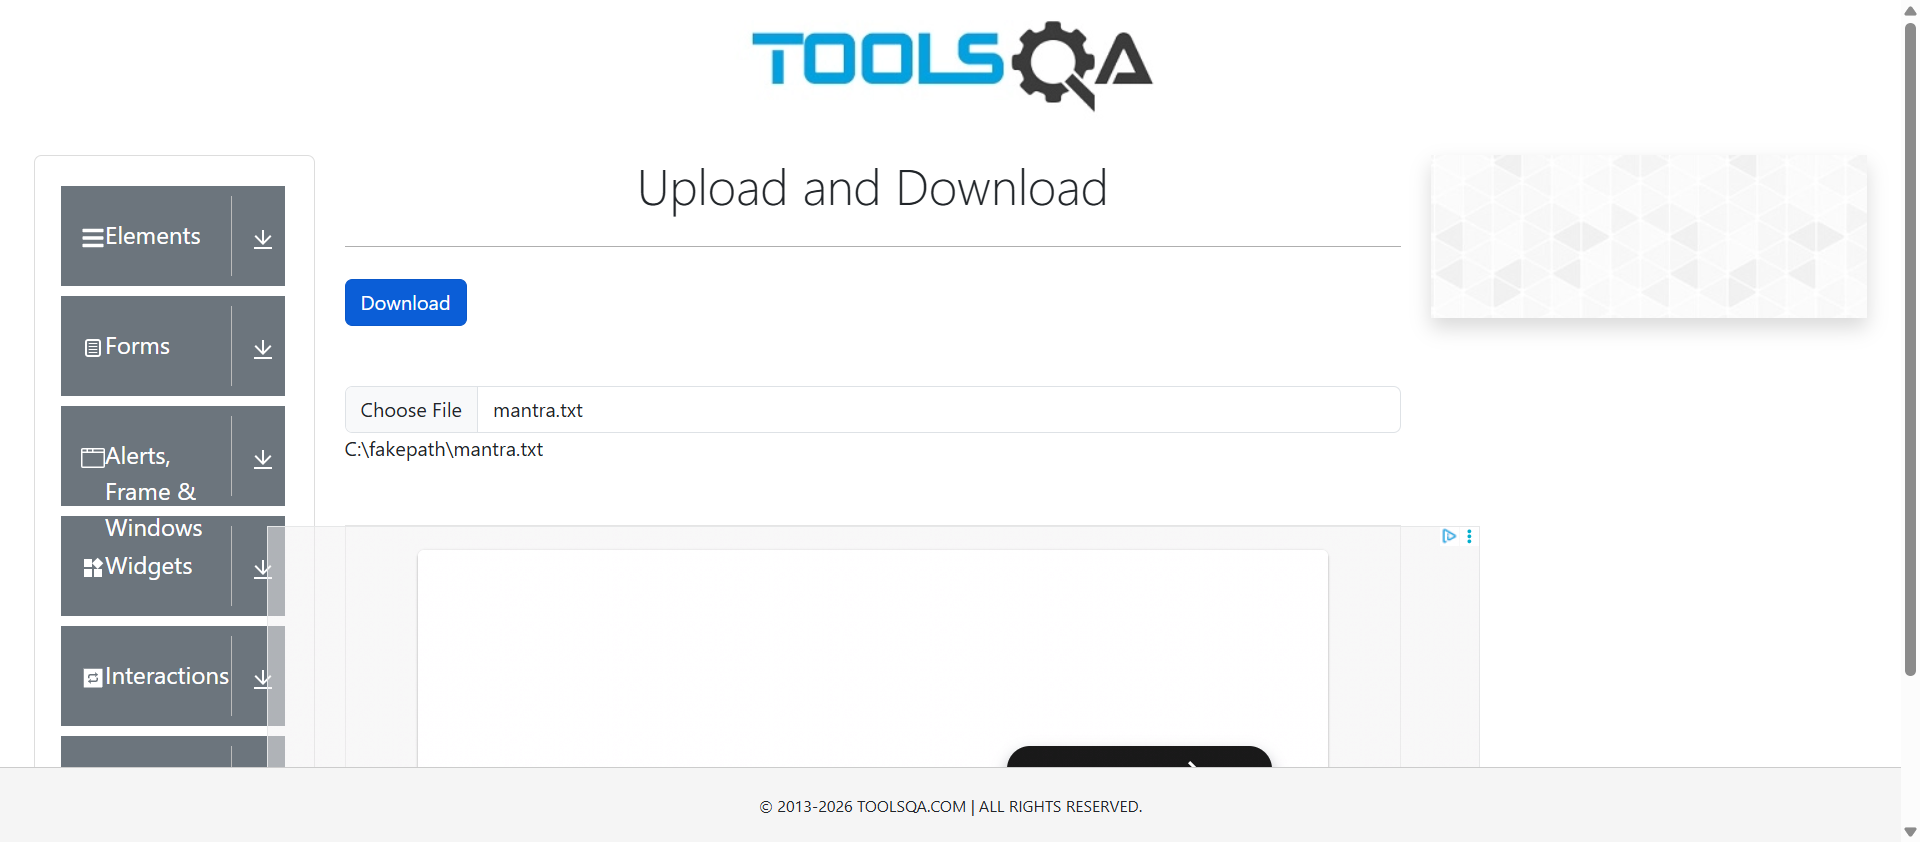
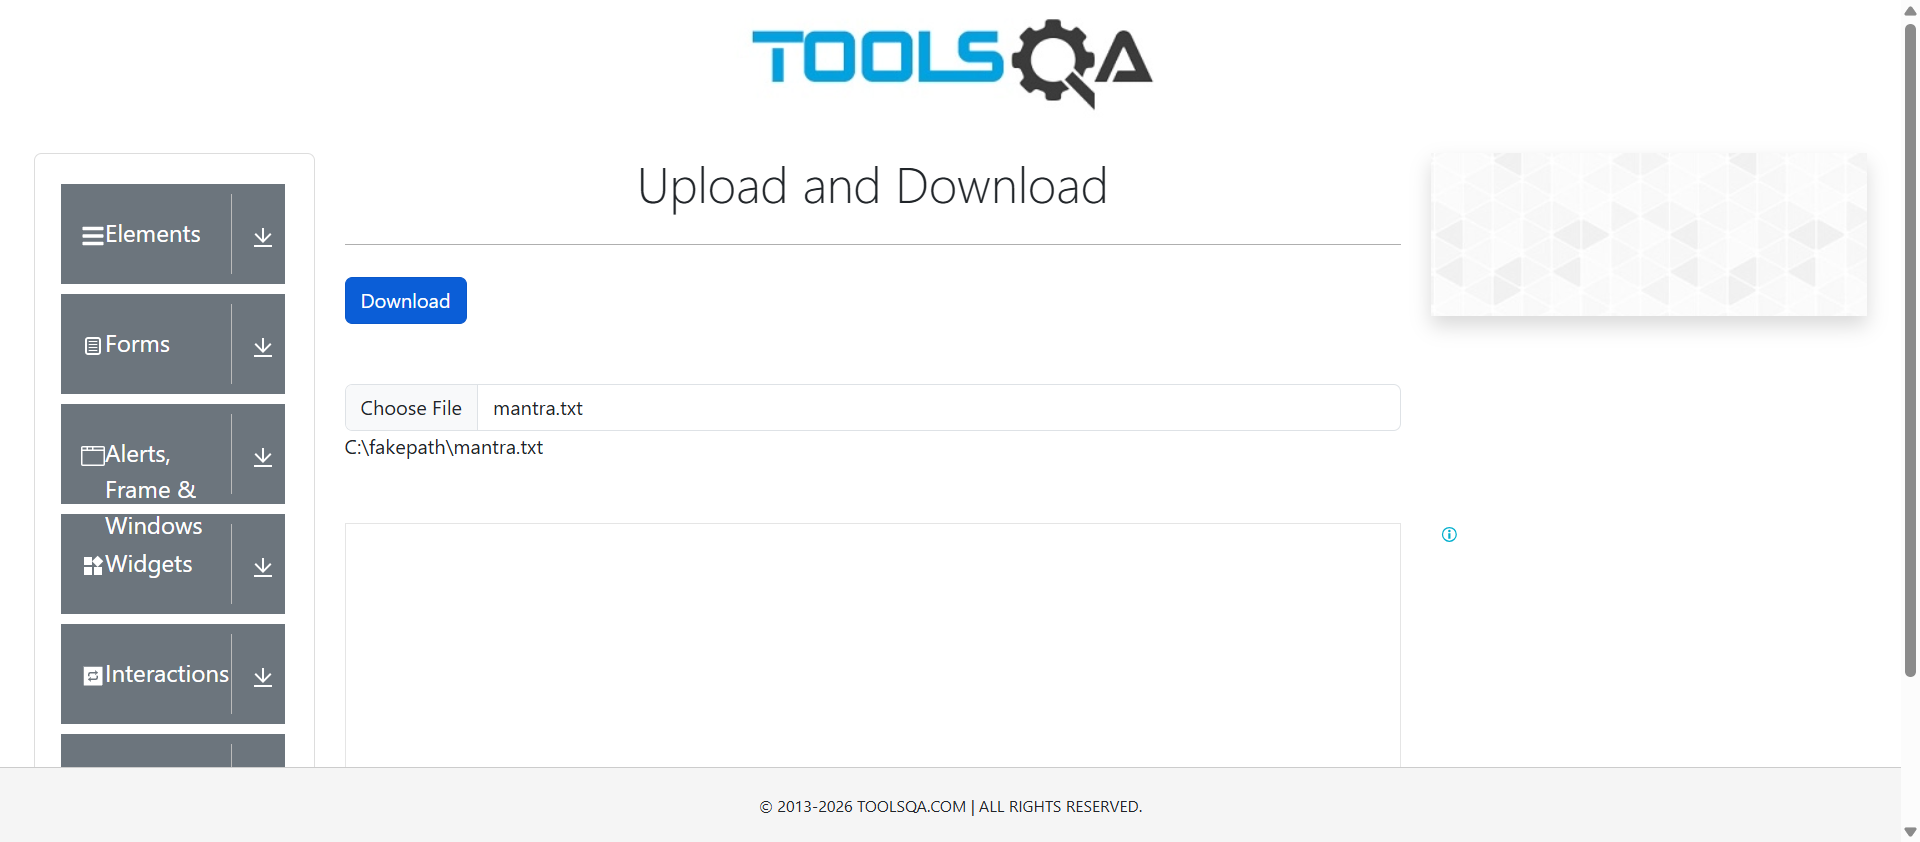
Added Page03 Page04 Page05 and test cases

diff --git a/Pages/Page05.py b/Pages/Page05.py
@@ -1,0 +1,70 @@
+import time
+from selenium.webdriver.common.by import By
+from selenium.webdriver.support.ui import Select
+from selenium.webdriver.support import expected_conditions as EC
+from selenium.webdriver.support.wait import WebDriverWait
+
+
+class Page05:
+    ELEMENTS_CARD = (By.XPATH, "//h5[normalize-space()='Elements']")
+    window_widget = (By.XPATH,"//body/div[@id='root']/div[contains(@class,'body-height')]/div[contains(@class,'container playgound-body')]/div[contains(@class,'row')]/div[contains(@class,'col-md-3 col-xl-2')]/div[@class='left-pannel']/div[@class='accordion']/div[1]/span[1]/div[1]/div[1]")
+    date_picker = (By.XPATH,"//span[normalize-space()='Date Picker']")
+    select_date = (By.XPATH,"//input[@id='datePickerMonthYearInput']")
+
+    def __init__(self, driver):
+        self.driver = driver
+        self.wait = WebDriverWait(driver,10)
+
+    def click_widget_btn(self):
+        elements_card = self.wait.until(EC.presence_of_element_located(self.ELEMENTS_CARD))
+        self.driver.execute_script("arguments[0].scrollIntoView(true);", elements_card)
+        time.sleep(0.5)
+        self.driver.execute_script("arguments[0].click();", elements_card)
+
+        elements_card = self.wait.until(EC.presence_of_element_located(self.window_widget))
+        self.driver.execute_script("arguments[0].scrollIntoView(true);", elements_card)
+        time.sleep(0.5)
+        self.driver.execute_script("arguments[0].click();", elements_card)
+
+    def click_date_picker(self):
+        buttons_menu = self.wait.until(EC.presence_of_element_located(self.date_picker))
+        self.driver.execute_script("arguments[0].scrollIntoView(true);", buttons_menu)
+        time.sleep(0.5)
+        self.driver.execute_script("arguments[0].click();", buttons_menu)
+
+    def select_picker(self):
+        buttons_menu = self.wait.until(EC.presence_of_element_located(self.select_date))
+        self.driver.execute_script("arguments[0].scrollIntoView(true);", buttons_menu)
+        time.sleep(0.5)
+        self.driver.execute_script("arguments[0].click();", buttons_menu)
+
+    def click_select_month(self):
+        sel = Select(self.driver.find_element(By.XPATH, "//select[@class='react-datepicker__month-select']"))
+        sel.select_by_visible_text("June")
+
+    def click_select_year(self):
+        sel = Select(self.driver.find_element(By.XPATH, "//select[@class='react-datepicker__year-select']"))
+        sel.select_by_visible_text("2026")
+
+    def click_select_date(self):
+        self.wait.until(
+            EC.element_to_be_clickable(
+                (By.XPATH, "//div[@aria-label='Choose Saturday, June 13th, 2026']")
+            )
+        ).click()
+        self.driver.save_screenshot("Screenshots\select date and time succesfully.png")
+        time.sleep(2)
+
+    def click_select_time(self):
+        time_locator = (By.XPATH,
+                        "//li[contains(@class,'react-datepicker__time-list-item') and normalize-space()='12:00']")
+
+        time_option = self.wait.until(EC.presence_of_element_located(time_locator))
+        self.driver.execute_script("arguments[0].scrollIntoView(true);", time_option)
+        time.sleep(0.5)
+        self.driver.execute_script("arguments[0].click();", time_option)
+
+        self.driver.save_screenshot("Screenshots/select_date_and_time_successfully.png")
+        time.sleep(2)
+
+

diff --git a/Pages/Page03.py b/Pages/Page03.py
@@ -1,0 +1,33 @@
+import time
+from selenium.webdriver.common.by import By
+from selenium.webdriver.support.wait import WebDriverWait
+from selenium.webdriver.support import expected_conditions as EC
+
+class Page03:
+    element_btn = (By.XPATH,"//h5[normalize-space()='Elements']")
+    checkbox_btn = (By.XPATH,"//span[normalize-space()='Check Box']")
+    home_btn = (By.XPATH,"//span[@aria-label='Select Home']")
+    home_list_btn = (By.XPATH,"//span[@class='rc-tree-switcher rc-tree-switcher_close']")
+    dekstop_list_btn = (By.XPATH,"/html[1]/body[1]/div[1]/div[1]/div[1]/div[1]/div[2]/div[1]/div[1]/div[3]/div[1]/div[1]/div[1]/div[2]/span[2]")
+
+    def __init__(self,driver):
+        self.driver = driver
+        self.wait = WebDriverWait(driver,10)
+
+    def click_element(self):
+        self.wait.until(EC.element_to_be_clickable(self.element_btn)).click()
+
+    def click_checkbox(self):
+        self.wait.until(EC.element_to_be_clickable(self.checkbox_btn)).click()
+
+    def click_home(self):
+        self.wait.until(EC.element_to_be_clickable(self.home_btn)).click()
+
+    def click_homelist(self):
+        self.wait.until(EC.element_to_be_clickable(self.home_list_btn)).click()
+
+    def click_desktop(self):
+        self.wait.until(EC.element_to_be_clickable(self.dekstop_list_btn)).click()
+
+
+

diff --git a/Pages/Page04.py b/Pages/Page04.py
@@ -1,0 +1,26 @@
+import time
+from selenium.webdriver.common.by import By
+from selenium.webdriver.support import expected_conditions as EC
+from Pages.BasePage import BasePage
+
+
+class Page04(BasePage):
+
+    ELEMENTS_CARD = (By.XPATH, "//h5[normalize-space()='Elements']")
+    BUTTONS_MENU = (By.XPATH, "//span[normalize-space()='Buttons']")
+
+    def __init__(self, driver):
+        super().__init__(driver)
+
+    def click_buttons(self):
+        # Step 1: Elements card click karo
+        elements_card = self.wait.until(EC.presence_of_element_located(self.ELEMENTS_CARD))
+        self.driver.execute_script("arguments[0].scrollIntoView(true);", elements_card)
+        time.sleep(0.5)
+        self.driver.execute_script("arguments[0].click();", elements_card)
+
+        # Step 2: Left sidebar mein "Buttons" click karo
+        buttons_menu = self.wait.until(EC.presence_of_element_located(self.BUTTONS_MENU))
+        self.driver.execute_script("arguments[0].scrollIntoView(true);", buttons_menu)
+        time.sleep(0.5)
+        self.driver.execute_script("arguments[0].click();", buttons_menu)

diff --git a/Pages/BasePage.py b/Pages/BasePage.py
@@ -1,0 +1,24 @@
+import time
+from selenium.webdriver.common.by import By
+from selenium.webdriver.support.ui import WebDriverWait
+from selenium.webdriver.support import expected_conditions as EC
+
+
+class BasePage:
+
+    def __init__(self, driver):
+        self.driver = driver
+        self.wait = WebDriverWait(driver, 10)
+
+    # Common helper — koi bhi page use kar sakta hai
+    def click_element(self, locator):
+        element = self.wait.until(EC.presence_of_element_located(locator))
+        self.driver.execute_script("arguments[0].scrollIntoView(true);", element)
+        time.sleep(0.5)
+        self.driver.execute_script("arguments[0].click();", element)
+
+    def is_element_visible(self, locator):
+        return self.wait.until(EC.visibility_of_element_located(locator))
+
+    def get_title(self):
+        return self.driver.title

diff --git a/testCases/test_page05.py b/testCases/test_page05.py
@@ -1,0 +1,18 @@
+import pytest
+from Pages.Page05 import Page05
+
+
[email redacted]("setup")
+class Test_Pagefive:
+
+    def test_verity_all_test(self, setup):
+        p5 = Page05(setup)
+
+        p5.click_widget_btn()
+        p5.click_date_picker()
+        p5.select_picker()
+        p5.click_select_month()
+        p5.click_select_year()
+        p5.click_select_date()
+        p5.click_select_time()
+

diff --git a/testCases/test_page03.py b/testCases/test_page03.py
@@ -1,0 +1,15 @@
+import pytest
+from Pages.Page03 import Page03
+
[email redacted]
[email redacted]("setup")
+class Test_Pagethree:
+
+    def test_verity_all_test(self, setup):
+        p3 = Page03(setup)
+
+        p3.click_element()
+        p3.click_checkbox()
+        p3.click_home()
+        p3.click_homelist()
+        p3.click_desktop()

diff --git a/testCases/test_page04.py b/testCases/test_page04.py
@@ -1,0 +1,11 @@
+import pytest
+from Pages.Page04 import Page04
+
+
[email redacted]("setup")
+class Test_Pagefour:
+
+    def test_verity_all_test(self, setup):
+        p4 = Page04(setup)
+
+        p4.click_buttons()

diff --git a/Pages/Page01.py b/Pages/Page01.py
@@ -20,10 +20,6 @@ class Page01:
         self.driver = driver
         self.wait = WebDriverWait(driver, 10)
 
-    def verify_page_title(self):
-        assert self.driver.title == "demosite", f"Actual title: {self.driver.title}"
-        print("Title matched")
-
     def element_page(self):
         self.wait.until(EC.element_to_be_clickable(self.ele_btn_clk)).click()
         self.wait.until(EC.element_to_be_clickable(self.btn_click)).click()
@@ -49,4 +45,5 @@ class Page01:
         self.driver.find_element(*self.per_Add).send_keys("malai Pura")
 
     def click_button_submit(self):
-        self.driver.find_element(By.ID, "submit").click()
+        button = self.driver.find_element(By.ID, "submit")
+        self.driver.execute_script("arguments[0].click();", button)

diff --git a/conftest.py b/conftest.py
@@ -25,6 +25,9 @@ def setup(request):
 
     driver.maximize_window()
     driver.get(ReadConfig().get_application_url())
+    expected_title = "demosite"
+    actual_title = driver.title
+    assert actual_title == expected_title
     request.cls.driver = driver
     yield driver
     driver.quit()

diff --git a/testCases/test_page02.py b/testCases/test_page02.py
@@ -1,7 +1,7 @@
 import pytest
 from Pages.Page02 import Page02
 
-
[email redacted]
 @pytest.mark.usefixtures("setup")
 class Test_Pagetwo:
 

diff --git a/testCases/test_page01.py b/testCases/test_page01.py
@@ -7,7 +7,6 @@ class Test_Pageone:
 
     def test_verify_title(self):
         p1 = Page01(self.driver)
-        p1.verify_page_title()
         p1.element_page()
         p1.text_box_button()
         p1.enter_full_name()